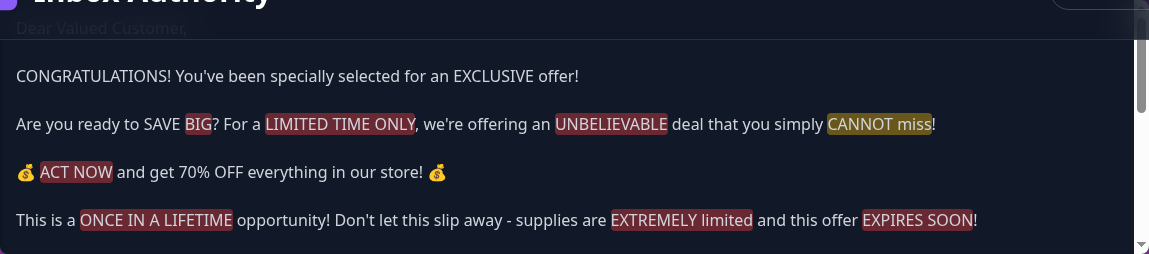
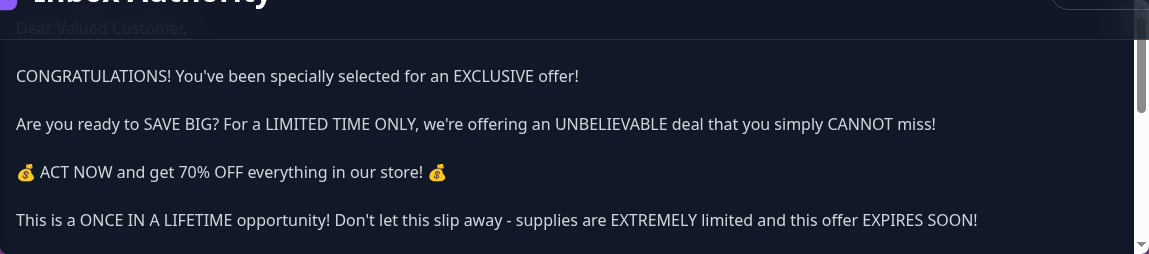
Improve text highlighting accuracy and scrolling synchronization
Adjusted text rendering to ensure accurate highlight placement and synchronized scrolling between the textarea and its backdrop.

Replit-Commit-Author: Agent
Replit-Commit-Session-Id: eacbd3e1-0815-4d06-b41c-bd835cb4d801
Replit-Commit-Checkpoint-Type: full_checkpoint
Replit-Commit-Event-Id: 18f78a98-20cd-45b2-8649-1fdf69a35777
Replit-Commit-Screenshot-Url: https://storage.googleapis.com/screenshot-production-us-central1/f17c07d6-b822-418c-be28-6b0f1ba7a753/eacbd3e1-0815-4d06-b41c-bd835cb4d801/FZYzrDr
Replit-Helium-Checkpoint-Created: true

diff --git a/client/src/components/HighlightedTextarea.tsx b/client/src/components/HighlightedTextarea.tsx
@@ -1,20 +1,16 @@
-import { useMemo, useRef, useEffect } from 'react';
+import { useMemo, useRef, useEffect, useCallback } from 'react';
 import type { SpamTrigger } from '../types';
 
 interface HighlightedTextareaProps extends React.TextareaHTMLAttributes<HTMLTextAreaElement> {
     spamTriggers: SpamTrigger[];
 }
 
-const getSeverityHighlightClass = (severity: 'High' | 'Medium' | 'Low'): string => {
+const getSeverityColor = (severity: 'High' | 'Medium' | 'Low'): string => {
     switch (severity) {
-        case 'High':
-            return 'bg-red-500/40';
-        case 'Medium':
-            return 'bg-yellow-500/40';
-        case 'Low':
-            return 'bg-blue-500/40';
-        default:
-            return '';
+        case 'High': return 'rgba(239, 68, 68, 0.4)';
+        case 'Medium': return 'rgba(234, 179, 8, 0.4)';
+        case 'Low': return 'rgba(59, 130, 246, 0.4)';
+        default: return 'transparent';
     }
 };
 
@@ -42,7 +38,7 @@ export const HighlightedTextarea: React.FC<HighlightedTextareaProps> = ({
     const highlightedHtml = useMemo(() => {
         const textValue = String(value || '');
         if (!spamTriggers || spamTriggers.length === 0 || !textValue) {
-            return escapeHtml(textValue).replace(/\n/g, '<br />') + ' ';
+            return escapeHtml(textValue).replace(/\n/g, '\n') + '\u200b';
         }
 
         const triggerMap = new Map<string, SpamTrigger>();
@@ -51,7 +47,7 @@ export const HighlightedTextarea: React.FC<HighlightedTextareaProps> = ({
         });
 
         const wordsToMatch = spamTriggers.map(t => escapeRegExp(t.word));
-        if (wordsToMatch.length === 0) return escapeHtml(textValue).replace(/\n/g, '<br />') + ' ';
+        if (wordsToMatch.length === 0) return escapeHtml(textValue) + '\u200b';
         
         const regex = new RegExp(`\\b(${wordsToMatch.join('|')})\\b`, 'gi');
         
@@ -65,8 +61,8 @@ export const HighlightedTextarea: React.FC<HighlightedTextareaProps> = ({
             }
             const matchedWord = match[0];
             const trigger = triggerMap.get(matchedWord.toLowerCase());
-            const highlightClass = trigger ? getSeverityHighlightClass(trigger.severity) : '';
-            parts.push(`<span class="rounded ${highlightClass}">${escapeHtml(matchedWord)}</span>`);
+            const bgColor = trigger ? getSeverityColor(trigger.severity) : 'transparent';
+            parts.push(`<mark style="background-color: ${bgColor}; color: transparent; border-radius: 3px;">${escapeHtml(matchedWord)}</mark>`);
             lastIndex = regex.lastIndex;
         }
 
@@ -74,31 +70,49 @@ export const HighlightedTextarea: React.FC<HighlightedTextareaProps> = ({
             parts.push(escapeHtml(textValue.substring(lastIndex)));
         }
         
-        return parts.join('').replace(/\n/g, '<br />') + ' ';
+        return parts.join('') + '\u200b';
     }, [value, spamTriggers]);
 
-    const handleScroll = () => {
+    const syncScroll = useCallback(() => {
         if (backdropRef.current && textareaRef.current) {
             backdropRef.current.scrollTop = textareaRef.current.scrollTop;
             backdropRef.current.scrollLeft = textareaRef.current.scrollLeft;
         }
-    };
+    }, []);
     
     useEffect(() => {
-        handleScroll();
-    }, [value]);
+        syncScroll();
+    }, [value, syncScroll]);
 
-    const sharedStyles: React.CSSProperties = {
-        fontFamily: 'inherit',
+    useEffect(() => {
+        const textarea = textareaRef.current;
+        if (textarea) {
+            textarea.addEventListener('scroll', syncScroll);
+            return () => textarea.removeEventListener('scroll', syncScroll);
+        }
+    }, [syncScroll]);
+
+    const baseStyles: React.CSSProperties = {
+        position: 'absolute',
+        top: 0,
+        left: 0,
+        width: '100%',
+        height: '100%',
+        padding: '16px',
+        margin: 0,
+        border: 'none',
+        fontFamily: 'ui-sans-serif, system-ui, sans-serif',
         fontSize: '16px',
-        lineHeight: '1.5',
+        fontWeight: 400,
+        lineHeight: '24px',
         letterSpacing: 'normal',
         wordSpacing: 'normal',
-        padding: '16px',
-        boxSizing: 'border-box',
+        textAlign: 'left',
+        textIndent: 0,
         whiteSpace: 'pre-wrap',
         wordWrap: 'break-word',
         overflowWrap: 'break-word',
+        boxSizing: 'border-box',
     };
 
     return (
@@ -106,9 +120,14 @@ export const HighlightedTextarea: React.FC<HighlightedTextareaProps> = ({
             <div
                 ref={backdropRef}
                 aria-hidden="true"
-                className="absolute top-0 left-0 right-0 bottom-0 overflow-auto pointer-events-none text-transparent select-none scrollbar-hide"
+                className="scrollbar-hide"
                 style={{ 
-                    ...sharedStyles,
+                    ...baseStyles,
+                    overflow: 'auto',
+                    pointerEvents: 'none',
+                    userSelect: 'none',
+                    color: 'transparent',
+                    background: 'transparent',
                     msOverflowStyle: 'none',
                     scrollbarWidth: 'none',
                 }}
@@ -117,9 +136,16 @@ export const HighlightedTextarea: React.FC<HighlightedTextareaProps> = ({
             <textarea
                 ref={textareaRef}
                 value={value}
-                onScroll={handleScroll}
-                className="w-full h-full bg-transparent caret-white relative z-10 block resize-none overflow-auto text-gray-300"
-                style={sharedStyles}
+                style={{
+                    ...baseStyles,
+                    position: 'relative',
+                    overflow: 'auto',
+                    background: 'transparent',
+                    color: '#d1d5db',
+                    caretColor: 'white',
+                    resize: 'none',
+                    outline: 'none',
+                }}
                 data-testid="textarea-highlighted"
                 {...props}
             />
